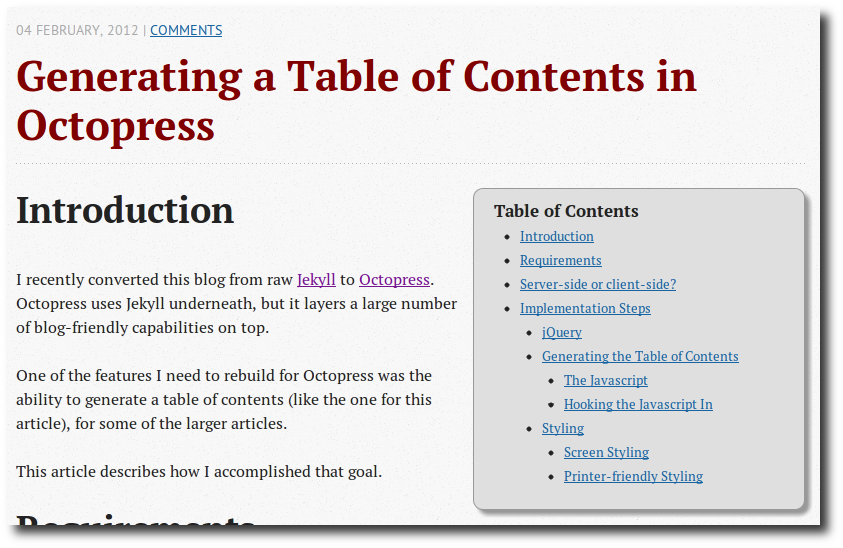
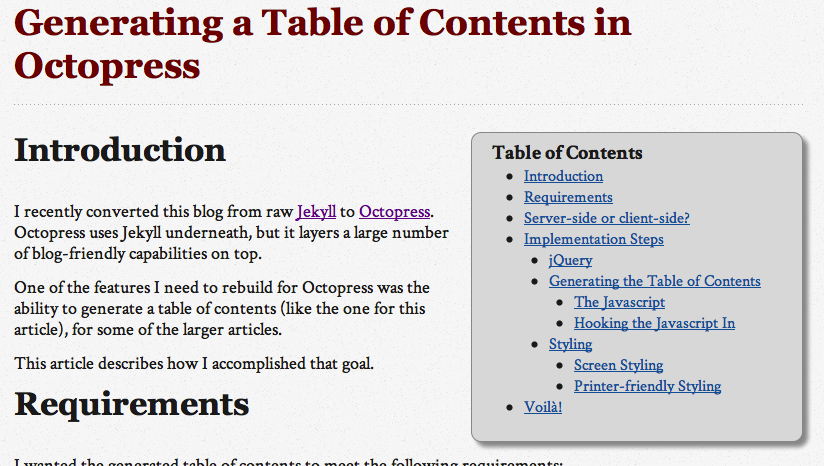
Moved my picture and contact info to an About aside.

Changed region(s): [[0.0, 0.0, 1.0, 1.0], [0.0, 0.8412, 0.4551, 0.9013]]

diff --git a/sass/custom/_styles.scss b/sass/custom/_styles.scss
@@ -91,13 +91,6 @@ h2.blog-subtitle {
     font-size: 80%;
 }
 
-div.blog-image {
-    float: right;
-    width: 90px;
-    height: 105px;
-    border: 1px solid gray;
-}
-
 img.image-right {
     float: right;
 }
@@ -124,3 +117,34 @@ p, li {
     }
 }
 
+#about-me {
+
+    margin-top: 1em;
+    margin-bottom: 5em;
+    width: 100%;
+
+    div.author-image {
+        width: 100%;
+
+        img {
+            float: right;
+            width: 90px;
+            height: 105px;
+            border: 1px solid #bbbbbb;
+        }
+    }
+
+    div.author {
+
+        span.author-name {
+            display: block;
+            font-size: $body_font_size;
+        }
+
+        span.author-email, span.author-twitter-id {
+            display: block;
+            font-size: $body_font_size - 4px;
+            font-style: italic;
+        }
+    }
+}

diff --git a/source/_includes/asides/about.html b/source/_includes/asides/about.html
@@ -1,0 +1,12 @@
+<section id="about-me">
+  <div class="author-image">
+    <img src="/images/bmc-2011-05-09-2-cartoon.png" width="90" height="105"/>
+  </div>
+
+  <div class="author">
+    <span class="author-name">{{ site.author }}</span>
+    <span class="author-email">{{ site.email }}</span>
+    <span class="author-twitter-id">@{{ site.twitter_user }}</span>
+  </div>
+
+</section>

diff --git a/source/_includes/custom/header.html b/source/_includes/custom/header.html
@@ -1,8 +1,5 @@
 <hgroup>
   <div class="header">
-    <div class="blog-image">
-      <img src="/images/bmc-2011-05-09-2-cartoon.png" width="90" height="105"/>
-    </div>
     <h1 class="blog-title"><a href="{{ root_url }}/">{{ site.title }}</a></h1>
     {% if site.subtitle %}
       <h2 class="blog-subtitle">{{ site.subtitle }}</h2>
